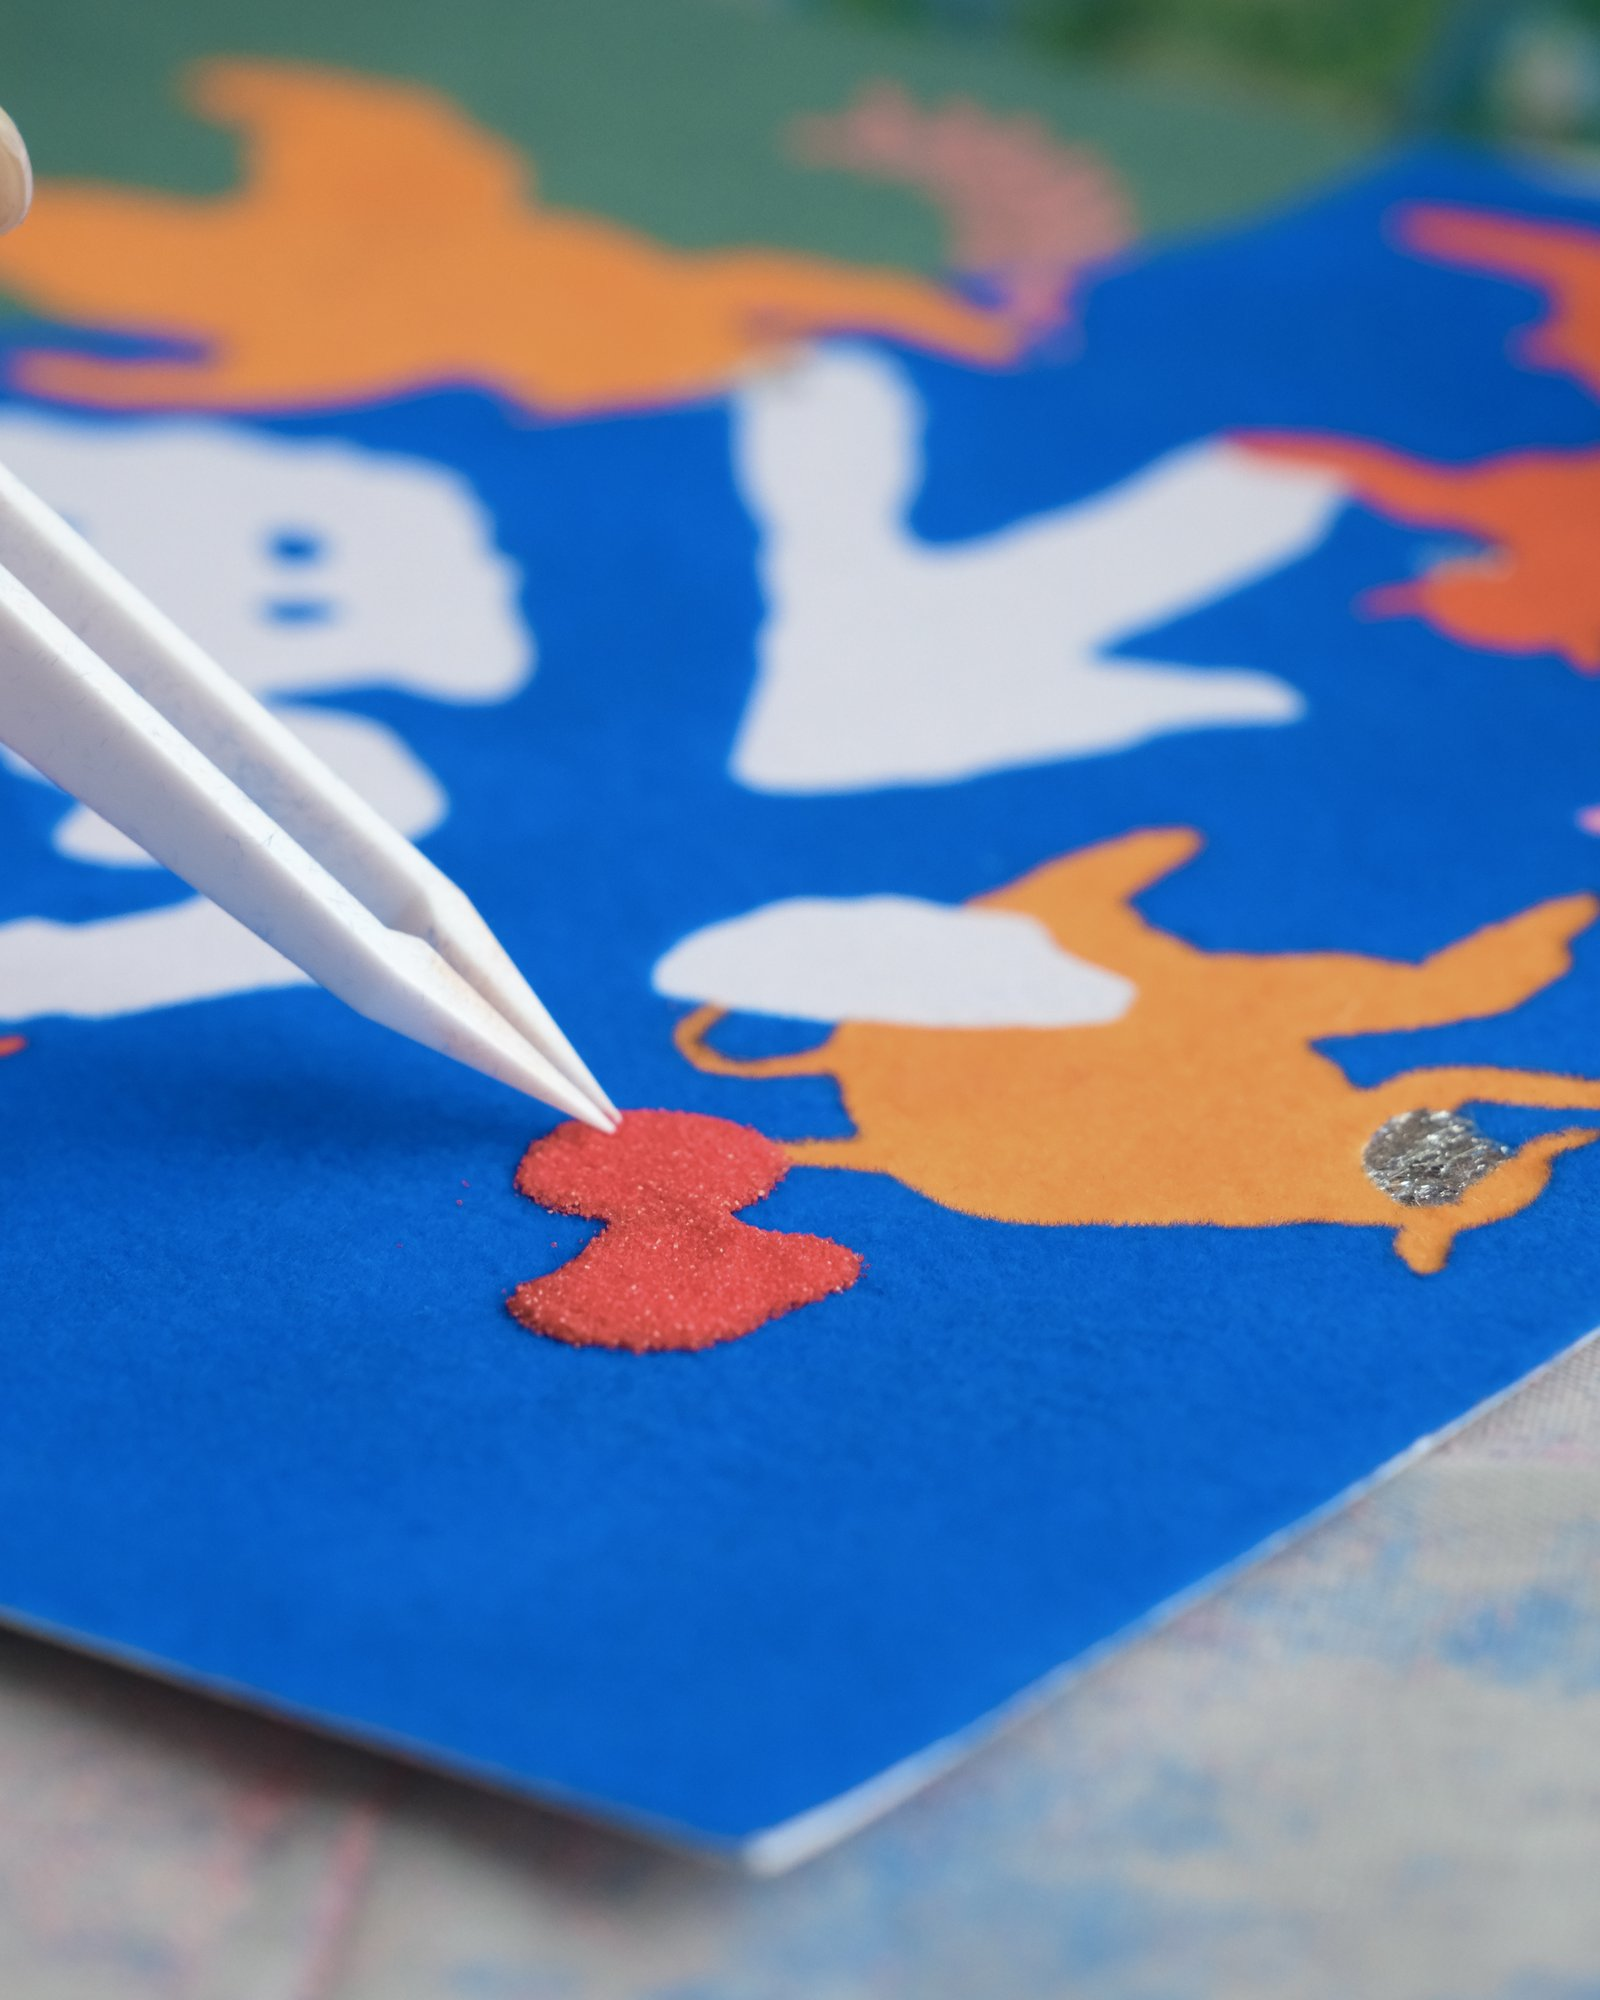
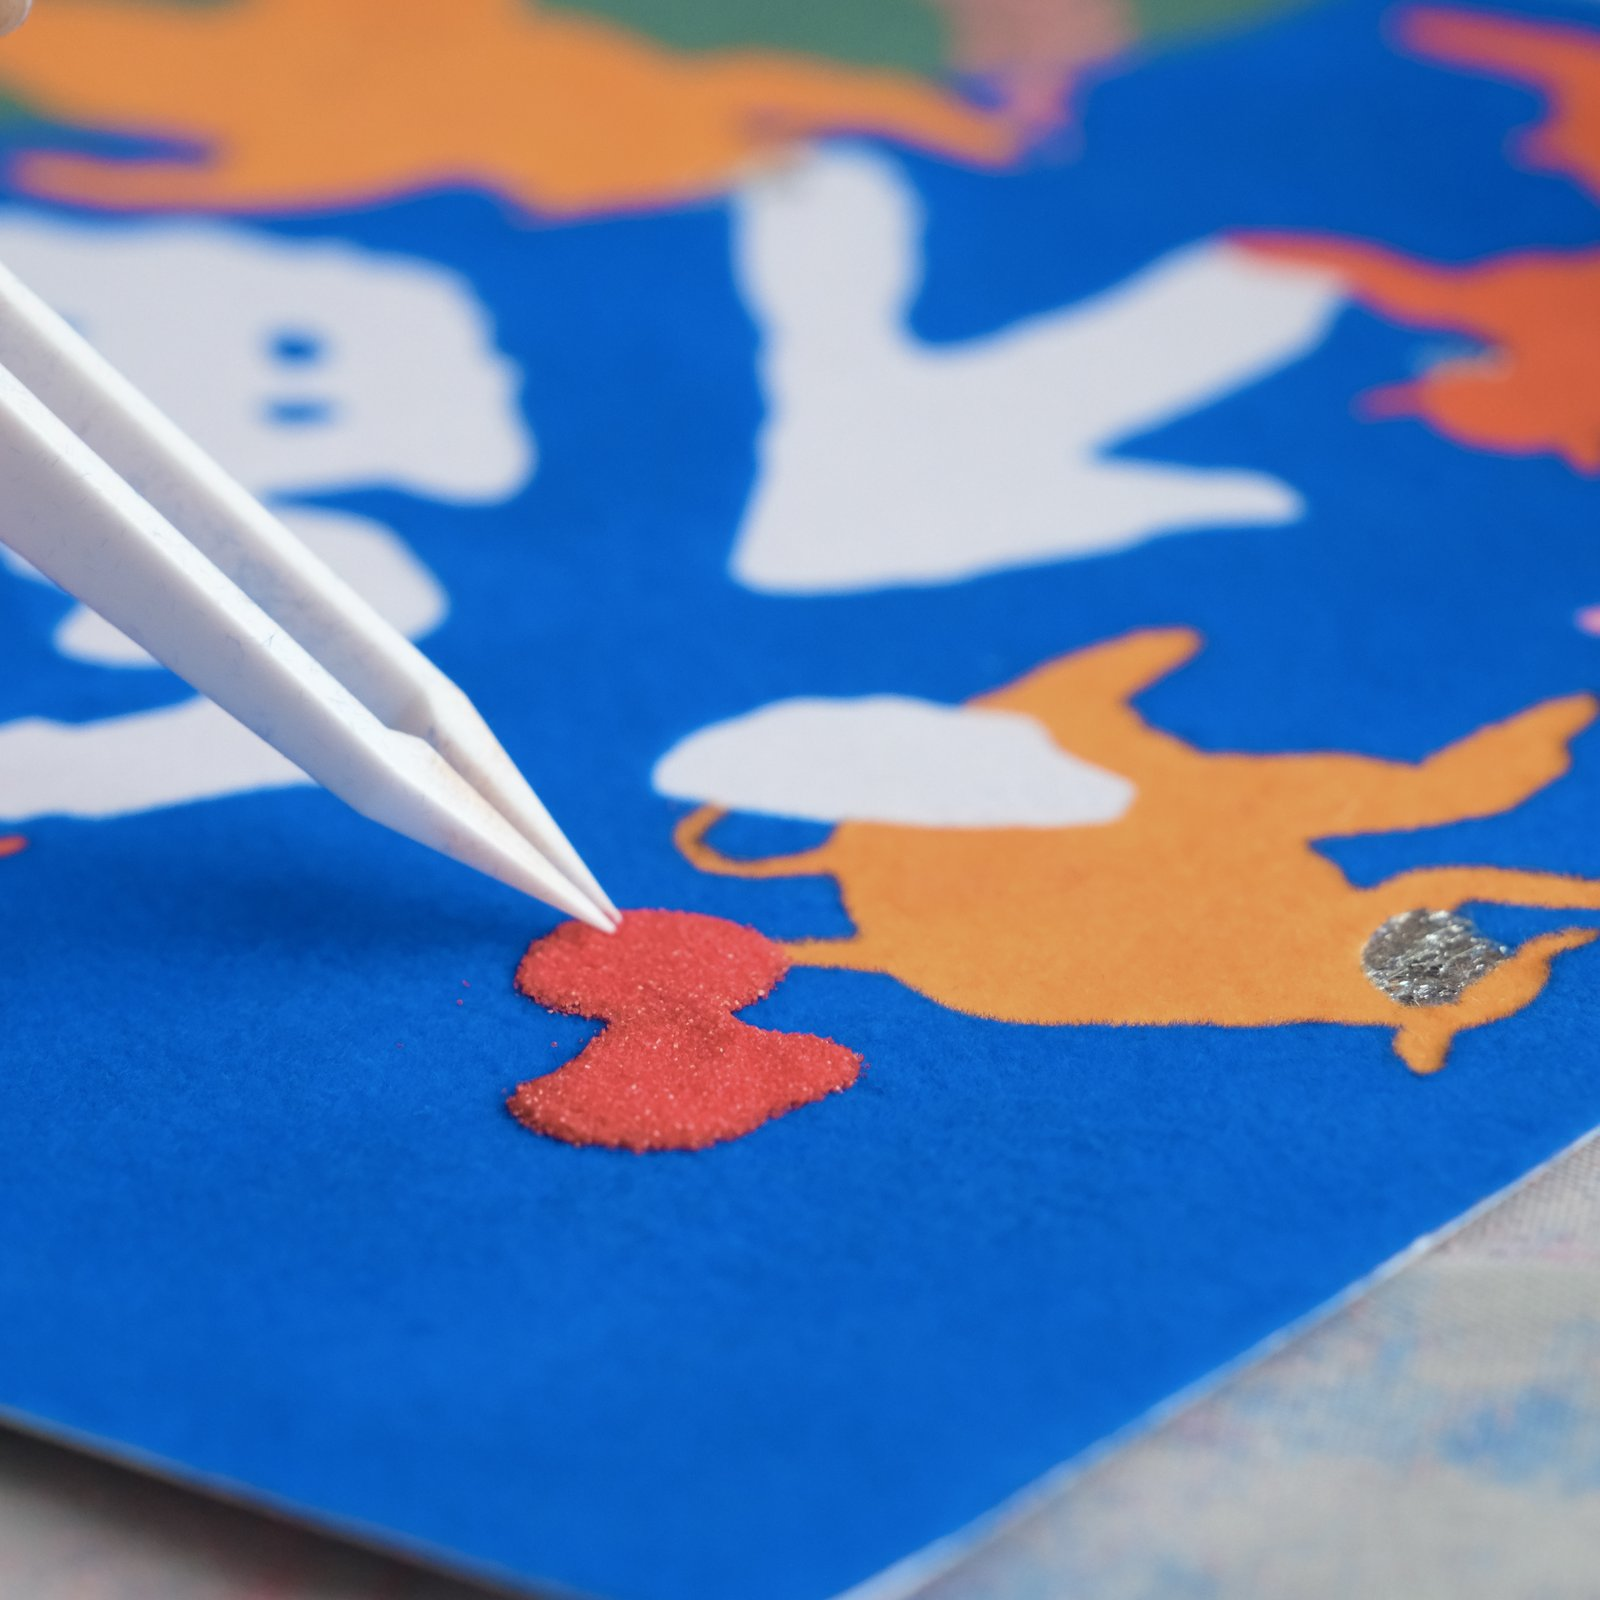
藍羊相片牆改回正方形
使用者確認正方形比較有質感，照片重新裁回 1:1，拿掉 .work__gallery--rect
變體（不再需要）跟對應的 CSS，HTML 的 img 尺寸也改回 1600×1600。

diff --git a/products/sand-art-artist-sheep-blue/index.html b/products/sand-art-artist-sheep-blue/index.html
@@ -157,21 +157,21 @@
            箭頭／滑動縮圖列後永久停止自動播放。藍款比紅款多絨毛砂、
            碎金箔、亮粉三種材質，縮圖裡刻意涵蓋到亮粉的鋪色／細節
            特寫，不是只有紅款那組材質的翻版。 -->
-      <div class="work__gallery work__gallery--rect fade-in" data-gallery>
+      <div class="work__gallery fade-in" data-gallery>
         <div class="work__gallery-main" data-gallery-main>
           <img src="../../assets/images/products/sand-art-artist/sand-art-artist-blue-main.jpg" alt="成品參考圖" width="1600" height="1600" loading="eager" class="is-active" data-gallery-frame>
-          <img src="../../assets/images/products/sand-art-artist/sand-art-artist-blue-gallery-12.jpg" alt="製作過程・收尾" width="1600" height="2000" loading="lazy" data-gallery-frame>
-          <img src="../../assets/images/products/sand-art-artist/sand-art-artist-blue-gallery-02.jpg" alt="撕開貼紙過程" width="1600" height="2000" loading="lazy" data-gallery-frame>
-          <img src="../../assets/images/products/sand-art-artist/sand-art-artist-blue-gallery-03.jpg" alt="材料與成品合拍" width="1600" height="2000" loading="lazy" data-gallery-frame>
-          <img src="../../assets/images/products/sand-art-artist/sand-art-artist-blue-gallery-04.jpg" alt="銀箔細節操作" width="1600" height="2000" loading="lazy" data-gallery-frame>
-          <img src="../../assets/images/products/sand-art-artist/sand-art-artist-blue-gallery-05.jpg" alt="絨毛砂與金箔細節" width="1600" height="2000" loading="lazy" data-gallery-frame>
-          <img src="../../assets/images/products/sand-art-artist/sand-art-artist-blue-gallery-06.jpg" alt="細砂鋪色特寫" width="1600" height="2000" loading="lazy" data-gallery-frame>
-          <img src="../../assets/images/products/sand-art-artist/sand-art-artist-blue-gallery-07.jpg" alt="倒細砂過程" width="1600" height="2000" loading="lazy" data-gallery-frame>
-          <img src="../../assets/images/products/sand-art-artist/sand-art-artist-blue-gallery-08.jpg" alt="掃入亮粉過程" width="1600" height="2000" loading="lazy" data-gallery-frame>
-          <img src="../../assets/images/products/sand-art-artist/sand-art-artist-blue-gallery-09.jpg" alt="亮粉細節特寫" width="1600" height="2000" loading="lazy" data-gallery-frame>
-          <img src="../../assets/images/products/sand-art-artist/sand-art-artist-blue-gallery-10.jpg" alt="倒亮粉過程" width="1600" height="2000" loading="lazy" data-gallery-frame>
-          <img src="../../assets/images/products/sand-art-artist/sand-art-artist-blue-gallery-11.jpg" alt="絨毛砂草叢特寫" width="1600" height="2000" loading="lazy" data-gallery-frame>
-          <img src="../../assets/images/products/sand-art-artist/sand-art-artist-blue-gallery-13.jpg" alt="完成品手持特寫" width="1600" height="2000" loading="lazy" data-gallery-frame>
+          <img src="../../assets/images/products/sand-art-artist/sand-art-artist-blue-gallery-12.jpg" alt="製作過程・收尾" width="1600" height="1600" loading="lazy" data-gallery-frame>
+          <img src="../../assets/images/products/sand-art-artist/sand-art-artist-blue-gallery-02.jpg" alt="撕開貼紙過程" width="1600" height="1600" loading="lazy" data-gallery-frame>
+          <img src="../../assets/images/products/sand-art-artist/sand-art-artist-blue-gallery-03.jpg" alt="材料與成品合拍" width="1600" height="1600" loading="lazy" data-gallery-frame>
+          <img src="../../assets/images/products/sand-art-artist/sand-art-artist-blue-gallery-04.jpg" alt="銀箔細節操作" width="1600" height="1600" loading="lazy" data-gallery-frame>
+          <img src="../../assets/images/products/sand-art-artist/sand-art-artist-blue-gallery-05.jpg" alt="絨毛砂與金箔細節" width="1600" height="1600" loading="lazy" data-gallery-frame>
+          <img src="../../assets/images/products/sand-art-artist/sand-art-artist-blue-gallery-06.jpg" alt="細砂鋪色特寫" width="1600" height="1600" loading="lazy" data-gallery-frame>
+          <img src="../../assets/images/products/sand-art-artist/sand-art-artist-blue-gallery-07.jpg" alt="倒細砂過程" width="1600" height="1600" loading="lazy" data-gallery-frame>
+          <img src="../../assets/images/products/sand-art-artist/sand-art-artist-blue-gallery-08.jpg" alt="掃入亮粉過程" width="1600" height="1600" loading="lazy" data-gallery-frame>
+          <img src="../../assets/images/products/sand-art-artist/sand-art-artist-blue-gallery-09.jpg" alt="亮粉細節特寫" width="1600" height="1600" loading="lazy" data-gallery-frame>
+          <img src="../../assets/images/products/sand-art-artist/sand-art-artist-blue-gallery-10.jpg" alt="倒亮粉過程" width="1600" height="1600" loading="lazy" data-gallery-frame>
+          <img src="../../assets/images/products/sand-art-artist/sand-art-artist-blue-gallery-11.jpg" alt="絨毛砂草叢特寫" width="1600" height="1600" loading="lazy" data-gallery-frame>
+          <img src="../../assets/images/products/sand-art-artist/sand-art-artist-blue-gallery-13.jpg" alt="完成品手持特寫" width="1600" height="1600" loading="lazy" data-gallery-frame>
         </div>
         <div class="work__gallery-strip-wrap">
           <button type="button" class="work__gallery-nav work__gallery-nav--prev" data-gallery-nav="-1" aria-label="上一張"><svg viewBox="0 0 24 24" width="16" height="16" fill="none" stroke="currentColor" stroke-width="2" stroke-linecap="round" stroke-linejoin="round" aria-hidden="true"><path d="M15 18l-6-6 6-6"/></svg></button>

diff --git a/css/products.css b/css/products.css
@@ -627,26 +627,6 @@
   background: var(--color-surface-light);
 }
 
-/* 藍羊相片牆：客人實際拍攝時是直式長方形構圖（相機原始比例接近
-   4:5），裁成正方形主圖會切掉構圖上下的留白。改成主圖維持 4:5 直式
-   長方形，縮圖列仍然維持正方形（.work__gallery-thumb 本來就是固定
-   60×60，object-fit:cover 自動裁出正方形縮圖，不用另外處理）——只有
-   「上方大圖」需要改比例，縮圖格狀排列本身跟長方形圖片混排會參差
-   不齊，維持正方形縮圖比較整齊。只在藍羊這個 .work__gallery--rect
-   變體套用，紅羊跟其他頁面的 .work__gallery 維持原本 1:1。 */
-.work__gallery--rect .work__gallery-main {
-  aspect-ratio: 4 / 5;
-}
-
-/* 主圖第一張是正方形的成品插畫（不是客人拍的照片），放進比它更高的
-   4:5 長方形框時，object-fit:cover 預設會裁掉左右兩側，菱形構圖的角
-   會被切掉。第一張維持 contain（整張完整顯示，上下留白），其餘實拍
-   照片（第二張開始）才用 cover 裁滿長方形——只有第一張是固定 DOM
-   順序（永遠是第一個 img），用 :first-child 鎖定，不用另外加 class。 */
-.work__gallery--rect .work__gallery-main img:first-child {
-  object-fit: contain;
-}
-
 .work__gallery-main img {
   position: absolute;
   inset: 0;
